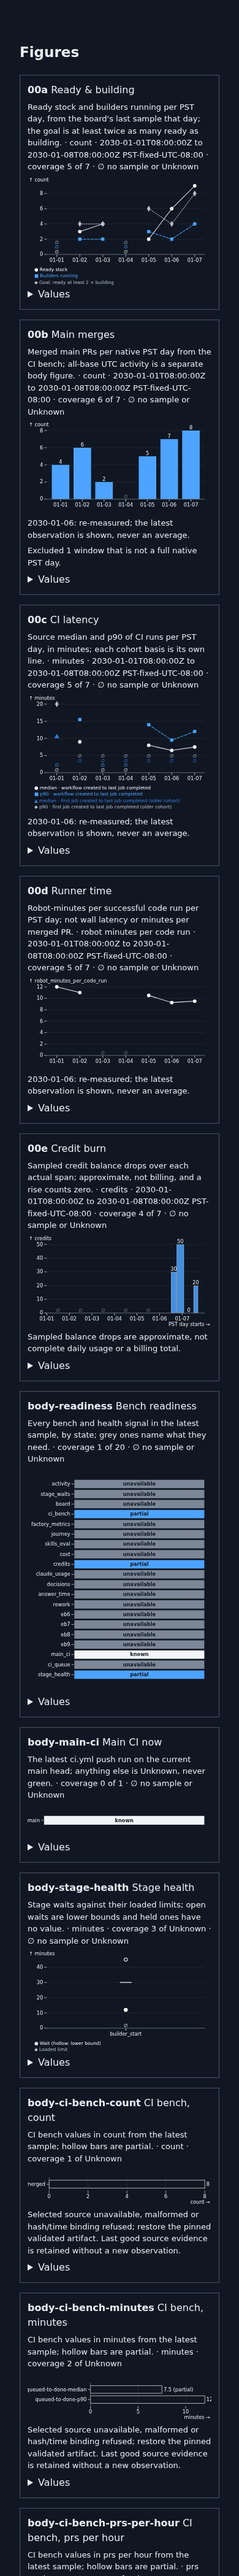
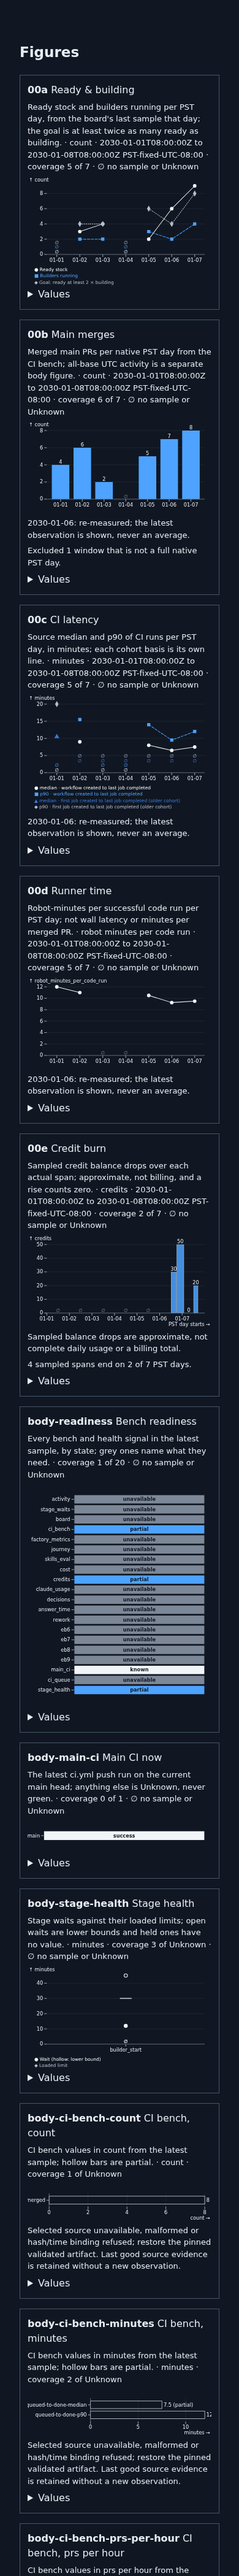
#630: green: review 1 fixes R1-R5
R1 main CI draws its result word; R2 gather's projected board feeds 00a through
read_natives' checks (its count metrics' pinned history); R3 labels carry each job,
interval or metric id; R4 credit coverage counts PST days, span count stated;
R5 credit spans keep their basis, recovered from the interval id.

Changed region(s): [[0.0923, 0.5302, 0.8923, 1.0]]

diff --git a/tools/war-room/charts/prepare.py b/tools/war-room/charts/prepare.py
@@ -91,30 +91,74 @@ def stale_gap(days, at):
 
 # --- native artifacts -----------------------------------------------------------
 
+def chart_selections(selection):
+    """The entries of a publish selection the chart build reads: a native board history, or
+    the projected board provider gather writes over its pinned raw history (R2)."""
+    return [s for s in selection if isinstance(s, dict) and (
+        s.get('kind') in NATIVE_KINDS or (s.get('kind') == 'projected' and s.get('slot') == 'board'))]
+
+
+def _checked_bytes(root, s, at):
+    suite.require(type(s) is dict and set(s) == sources.REQUIRED, 'invalid chart selection fields')
+    suite.require(type(s['path']) is str and re.fullmatch(r'[A-Za-z0-9_.-]+(?:/[A-Za-z0-9_.-]+)*', s['path'])
+                  and not any(x in ('.', '..') for x in s['path'].split('/')), 'invalid chart source path')
+    suite.require(type(s['sha256']) is str and re.fullmatch('[0-9a-f]{64}', s['sha256']), 'invalid chart source hash')
+    suite.require(type(s['evidence']) is list and s['evidence']
+                  and all(type(u) is str and sources.LINK.fullmatch(u) for u in s['evidence']), 'invalid chart source links')
+    suite.require(suite._time(s['observed_at']) <= suite._time(at), 'chart source observed after the build')
+    suite.require(root is not None, 'a chart selection needs its source root')
+    base = Path(root).resolve()
+    path = (base / s['path']).resolve()
+    suite.require(path.is_relative_to(base), 'chart source escapes its root')
+    raw = path.read_bytes()
+    suite.require(hashlib.sha256(raw).hexdigest() == s['sha256'], 'chart source hash mismatch')
+    return raw
+
+
+BOARD_COUNTS = ('ready-stock', 'builders-running')
+
+
+def board_from_projected(root, s, at):
+    """The native board history a projected board provider was built from, or None.
+
+    Its ready-stock and builders-running counts, the two 00a plots, pin one raw
+    `history.jsonl` (path, SHA-256, observation time, evidence); that becomes a
+    board_history selection, then passes read_natives' own checks. Other metrics can
+    cite other files (the ratios cite graph.json) and are not this history."""
+    provider = suite._decode(_checked_bytes(root, s, at).decode('utf-8'))
+    suite.require(type(provider) is dict and provider.get('slot') == 'board', 'projected board slot mismatch')
+    pinned = {(m['source']['path'], m['source']['sha256'], m['observed_at'], tuple(m['evidence']))
+              for m in provider.get('metrics', [])
+              if type(m) is dict and m.get('id') in BOARD_COUNTS and type(m.get('source')) is dict
+              and m['source'].get('schema') == sources.PLAN_LINKS}
+    if not pinned:
+        return None  # an unavailable or graph-only board: nothing to chart
+    suite.require(len(pinned) == 1, 'a projected board names more than one history')
+    path, sha, observed, evidence = pinned.pop()
+    return {'kind': 'board_history', 'slot': 'board', 'path': path, 'sha256': sha,
+            'observed_at': observed, 'evidence': list(evidence)}
+
+
 def read_natives(root, selections, at):
     """Selected native artifacts the chart build reads itself: board history only.
 
     Each entry has the sources.select shape; its bytes must match their SHA-256, stay
-    inside the root and have been observed at or before the build. Any refusal raises.
+    inside the root and have been observed at or before the build. A projected board
+    provider stands for the raw history it pins. Any refusal raises.
     """
     suite._time(at)
     suite.require(type(selections) in (list, tuple), 'chart selection must be an array')
+    suite.require(len({s.get('slot') for s in selections if type(s) is dict}) == len(selections),
+                  'one chart selection per slot')
     out = []
     for s in selections:
+        if type(s) is dict and s.get('kind') == 'projected' and s.get('slot') == 'board':
+            s = board_from_projected(root, s, at)
+            if s is None:
+                continue
         suite.require(type(s) is dict and set(s) == sources.REQUIRED, 'invalid chart selection fields')
         suite.require(s['kind'] in NATIVE_KINDS and s['slot'] == sources.SLOTS[s['kind']], 'unsupported chart selection')
-        suite.require(type(s['path']) is str and re.fullmatch(r'[A-Za-z0-9_.-]+(?:/[A-Za-z0-9_.-]+)*', s['path'])
-                      and not any(x in ('.', '..') for x in s['path'].split('/')), 'invalid chart source path')
-        suite.require(type(s['sha256']) is str and re.fullmatch('[0-9a-f]{64}', s['sha256']), 'invalid chart source hash')
-        suite.require(type(s['evidence']) is list and s['evidence']
-                      and all(type(u) is str and sources.LINK.fullmatch(u) for u in s['evidence']), 'invalid chart source links')
-        suite.require(suite._time(s['observed_at']) <= suite._time(at), 'chart source observed after the build')
-        suite.require(root is not None, 'a chart selection needs its source root')
-        base = Path(root).resolve()
-        path = (base / s['path']).resolve()
-        suite.require(path.is_relative_to(base), 'chart source escapes its root')
-        raw = path.read_bytes()
-        suite.require(hashlib.sha256(raw).hexdigest() == s['sha256'], 'chart source hash mismatch')
+        raw = _checked_bytes(root, s, at)
         lines = [line for line in raw.decode('utf-8').splitlines() if line.strip()]
         rows = [sources.board_strict(line) for line in lines]
         suite.require(bool(rows), 'empty board history')
@@ -179,8 +223,10 @@ def _figure(fid, kind, title, caption, unit, window, domain, series, rows, gaps,
             'gaps': [clean(g) for g in dict.fromkeys(gaps)], 'srcs': srcs}
 
 
-def _row(key, series, x, y, state, label, x2=None):
-    return {'key': key, 'series': series, 'x': x, 'x2': x2, 'y': y, 'state': state, 'label': clean(label)}
+def _row(key, series, x, y, state, label, x2=None, text=None):
+    """One mark. `text` is a short word drawn visibly on cell figures (a result, a state)."""
+    return {'key': key, 'series': series, 'x': x, 'x2': x2, 'y': y, 'state': state, 'text': text,
+            'label': clean(label)}
 
 
 def _unknown_figure(fid, kind, title, caption, unit, reason):
@@ -349,26 +395,59 @@ def credit_burn(records, at):
     for e in entries:
         by_end.setdefault(pst_day(_iso(suite._time(e['metric']['window']['until']) - timedelta(seconds=1))), []).append(e)
     days = seven_days(max(by_end))
-    rows, srcs = [], []
+    rows, srcs, used = [], [], []
     for e in sorted((e for d in days for e in by_end.get(d, [])), key=lambda e: e['metric']['window']['since']):
         m = e['metric']
         since, until = m['window']['since'], m['window']['until']
         end_day = pst_day(_iso(suite._time(until) - timedelta(seconds=1)))
         crosses = pst_day(since) != end_day
-        label = (f'Credit span {since} to {until} ({_hours(since, until)}): {_fmt(m["value"])} credits dropped, '
+        basis = credit_basis(m['id'], since, until)
+        used.append(basis)
+        label = (f'Credit span {since} to {until} ({_hours(since, until)}): {_fmt(m["value"])} {BASIS_WORDS[basis]}, '
                  f'PST day {end_day}' + ('; crosses a PST midnight, not split' if crosses else '') + '; sampled, not billing')
-        rows.append(_row(m['id'], 'drop', since, _num(m['value']), 'partial' if m['state'] != 'known' else 'known', label, x2=until))
+        rows.append(_row(m['id'], 'drop:' + basis, since, _num(m['value']),
+                         'partial' if m['state'] != 'known' else 'known', label, x2=until))
         srcs.append(_source('credits', m['id'], m['source'], m['evidence'], e['samples']))
     for day in days:
         if day not in by_end:
-            rows.append(_row('missing:' + day, 'drop', day_start(day), None, 'missing',
+            rows.append(_row('missing:' + day, 'missing', day_start(day), None, 'missing',
                              f'PST day {day}: no sampled credit span ends this day', x2=day_start(day_after(day))))
     window = pst_window(days)
     # A span that starts before the window's first day is drawn from the window's start.
     window['since'] = min([window['since']] + [r['x'] for r in rows])
-    series = [{'key': 'drop', 'label': 'Sampled credit drop', 'role': 'secondary'}]
-    gaps = ['Sampled balance drops are approximate, not complete daily usage or a billing total.'] + stale_gap(days, at)
-    return _figure('00e', 'spans', title, caption, 'credits', window, days, series, rows, gaps, srcs, 7)
+    # R5: each measurement basis is its own series; an unknown basis is never full-balance evidence.
+    series = [{'key': 'drop:' + b, 'label': BASIS_SERIES[b], 'role': BASIS_ROLE[b]} for b in BASES if b in used]
+    series.append({'key': 'missing', 'label': 'No span ends this PST day', 'role': 'muted'})
+    gaps = ['Sampled balance drops are approximate, not complete daily usage or a billing total.']
+    if 'extra-only' in used:
+        gaps.append('Extra-only seed spans compare extra credits only; the overall balance change over them is unknown.')
+    if 'unknown' in used:
+        gaps.append('A span whose basis cannot be recovered from its interval id is shown apart, never as full-balance.')
+    observed_days = [d for d in days if d in by_end]
+    gaps.append(f'{len(used)} sampled span{"s" if len(used) != 1 else ""} end on {len(observed_days)} of 7 PST days.')
+    gaps += stale_gap(days, at)
+    fig = _figure('00e', 'spans', title, caption, 'credits', window, days, series, rows, gaps, srcs, 7)
+    # R4: day coverage counts PST days with a span ending, never spans against days.
+    fig['coverage']['observed'] = len(observed_days)
+    return fig
+
+
+# The native credit reader names each span by sha256(since|until|basis) (sources.credits), so
+# the basis is recovered exactly by matching both candidates; anything else stays unknown.
+BASES = ('full-balance', 'extra-only', 'unknown')
+BASIS_WORDS = {'full-balance': 'credits dropped (full balance)',
+               'extra-only': 'extra credits dropped (extra-only seed; overall balance change unknown)',
+               'unknown': 'credits dropped (basis unknown)'}
+BASIS_SERIES = {'full-balance': 'Sampled drop, full balance', 'extra-only': 'Sampled drop, extra credits only (seed)',
+                'unknown': 'Sampled drop, basis unknown'}
+BASIS_ROLE = {'full-balance': 'secondary', 'extra-only': 'older', 'unknown': 'reference'}
+
+
+def credit_basis(metric_id, since, until):
+    for basis in BASES[:2]:
+        if metric_id == 'sampled-drop-' + hashlib.sha256('|'.join((since, until, basis)).encode('ascii')).hexdigest():
+            return basis
+    return 'unknown'
 
 
 # --- body figures ---------------------------------------------------------------
@@ -383,7 +462,7 @@ def readiness(record):
     for p in record['providers'] + suite.health(record):
         name = NAMES.get(p['slot'], p['slot'])
         label = f'{name}: {p["state"]}' + (f'. {p["prerequisites"][0]}' if p['prerequisites'] else '')
-        rows.append(_row(p['slot'], 'state', p['slot'], None, p['state'], label))
+        rows.append(_row(p['slot'], 'state', p['slot'], None, p['state'], label, text=p['state']))
         domain.append(p['slot'])
     series = [{'key': 'state', 'label': 'Provider state', 'role': 'primary'}]
     fig = _figure('body-readiness', 'readiness', 'Bench readiness',
@@ -399,7 +478,7 @@ def main_ci_figure(record):
     for o in provider['observations'] or [None]:
         if o is None:
             rows.append(_row('main', 'result', 'main', None, 'unavailable',
-                             'Main CI: Unknown. ' + '; '.join(provider['prerequisites'])))
+                             'Main CI: Unknown. ' + '; '.join(provider['prerequisites']), text='unknown'))
             continue
         ident = o['identity']
         where = (f' at {ident["head_sha"][:7]}' if ident['head_sha'] else '') + (
@@ -407,7 +486,9 @@ def main_ci_figure(record):
         text = f'Main CI{where}: {o["result"]}' + (f' (read {o["point"]})' if o['point'] else '')
         if o['prerequisites']:
             text += '. ' + '; '.join(o['prerequisites'])
-        rows.append(_row('main', 'result', 'main', None, o['state'], text))
+        # R1: the result itself is drawn, not only the evidence state: success, failure,
+        # pending, cancelled and unknown must look different without hover or disclosure.
+        rows.append(_row('main', 'result', 'main', None, o['state'], text, text=o['result'] or 'unknown'))
     srcs = [_source('main_ci', o['id'], o['source'], o['evidence'], [record['sample_id']])
             for o in provider['observations'] if o['source']]
     return _figure('body-main-ci', 'readiness', 'Main CI now',
@@ -422,7 +503,9 @@ def _limits_figure(fid, title, caption, waits, limits, sample_id, slot, unknown_
     rows, srcs = [], []
     for x, o in waits:
         lower = o['state'] == 'partial' and o['value'] is not None
-        text = f'{o["label"]} ({x}): ' + ('Unknown' if o['value'] is None else ('at least ' if lower else '') + f'{_fmt(o["value"])} min')
+        # R3: the observation's own identity (job or interval), so equal waits stay distinct.
+        ident = o['id'].split(':')[-1]
+        text = f'{o["label"]} ({x}, {ident}): ' + ('Unknown' if o['value'] is None else ('at least ' if lower else '') + f'{_fmt(o["value"])} min')
         rows.append(_row(o['id'], 'wait', x, o['value'], o['state'], text))
         if o['source']:
             srcs.append(_source(slot, o['id'], o['source'], o['evidence'], [sample_id]))
@@ -445,7 +528,7 @@ def health_figures(record):
     counts = [o for o in queue if o['statistic'] == 'count']
     if counts:
         rows = [_row(o['id'], 'count', o['id'], o['value'], o['state'],
-                     f'{o["label"]}: ' + ('Unknown' if o['value'] is None else _fmt(o['value']))) for o in counts]
+                     f'{o["label"]} ({o["id"]}): ' + ('Unknown' if o['value'] is None else _fmt(o['value']))) for o in counts]
         srcs = [_source('ci_queue', o['id'], o['source'], o['evidence'], [record['sample_id']]) for o in counts if o['source']]
         figs.append(_figure('body-ci-queue-count', 'bars', 'CI queue now',
                             'Queued and running CI jobs per exact pool at the read; an incomplete read is Unknown, never zero.',
@@ -486,7 +569,7 @@ def body_figures(record):
             metrics = [m for m in metrics if not m['id'].startswith(('wait:', 'limit:'))]
         if slot == 'journey':
             rows = [_row(m['id'], 'ticket', None, m['value'], m['state'],
-                         f'Ticket {m["dimensions"]["ticket"]}: {_fmt(m["value"])} h ready to merge') for m in metrics]
+                         f'Ticket {m["dimensions"]["ticket"]} ({m["id"]}): {_fmt(m["value"])} h ready to merge') for m in metrics]
             srcs = [_source(slot, m['id'], m['source'], m['evidence'], [record['sample_id']]) for m in metrics if m['source']]
             figs.append(_figure('body-journey', 'distribution', 'Ticket ready to merge',
                                 'Hours from ready to first closing merge, one dot per recorded ticket; coverage is unknown.',
@@ -496,7 +579,7 @@ def body_figures(record):
         for unit in sorted({m['unit'] for m in metrics}):
             mine = [m for m in metrics if m['unit'] == unit]
             rows = [_row(m['id'], 'value', m['id'], m['value'], m['state'],
-                         f'{m["label"]}: ' + ('Unknown' if m['value'] is None else f'{_fmt(m["value"])} {unit}')
+                         f'{m["label"]} ({m["id"]}): ' + ('Unknown' if m['value'] is None else f'{_fmt(m["value"])} {unit}')
                          + (f' [{m["window"]["since"]}, {m["window"]["until"]})' if m['window'] else '')) for m in mine]
             srcs = [_source(slot, m['id'], m['source'], m['evidence'], [record['sample_id']]) for m in mine if m['source']]
             fid = 'body-' + re.sub('[^a-z0-9]+', '-', f'{slot}-{unit}').strip('-')

diff --git a/tools/war-room/test_charts.py b/tools/war-room/test_charts.py
@@ -501,27 +501,28 @@ class Charts(unittest.TestCase):
 
     def test_a_gathered_projected_board_feeds_ready_and_building(self):
         # catches (R2): gather selects the board as a projected provider over its raw
-        # history, and the chart build ignored it, so 00a was Unknown on the normal path.
-        import gather
-        with tempfile.TemporaryDirectory() as d:
-            staging = Path(d) / 'root'
-            staging.mkdir()
-            root = gather.Root(staging, REPO, 'https://github.com/synthetic-owner/work/actions/runs/9', BUILD_AT)
-            raw = BOARD.encode()
-            s = {'path': 'board/history.jsonl', 'sha256': root.write('board/history.jsonl', raw),
-                 'observed_at': '2030-01-08T09:40:00Z', 'evidence': [LINK]}
-            root.projected(gather.board_provider(s, raw, None, None), s['observed_at'])
-            self.assertEqual([e['kind'] for e in root.selection], ['projected'])
-            (Path(d) / 'selection.json').write_text(json.dumps(root.selection))
-            w = World(Path(d) / 'w')
-            bundle = publish.chart_builder(staging, Path(d) / 'selection.json', BUILD_AT)(w.history)
-            fig = figure(bundle, '00a')
-            self.assertEqual(by_day(fig, 'ready')['2030-01-07'], 9)
-            self.assertEqual(fig['sources'][0]['sha256'], s['sha256'])
-            # The projected provider names the raw history; tampered raw bytes still refuse.
-            (staging / 'board/history.jsonl').write_bytes(raw + b'\n')
+        # history (its ratios citing graph.json), and the chart build ignored it, so 00a
+        # was Unknown on the normal gathered publication.
+        import test_gather
+        case = test_gather.Gather()
+        case.setUp()
+        try:
+            root, selection = case.gather()
+            self.assertEqual([s['kind'] for s in selection if s['slot'] == 'board'], ['projected'])
+            board = next(json.loads((root / s['path']).read_text()) for s in selection if s['slot'] == 'board')
+            counts = {m['id']: m['value'] for m in board['metrics'] if m['id'] in ('ready-stock', 'builders-running')}
+            build_chart = publish.chart_builder(root, case.tmp / 'out' / 'selection.json', test_gather.PUBLISH_AT)
+            fig = figure(build_chart(case.tmp / 'no-history'), '00a')
+            latest = fig['domain'][-1]
+            self.assertEqual((by_day(fig, 'ready')[latest], by_day(fig, 'building')[latest]),
+                             (counts['ready-stock'], counts['builders-running']))
+            self.assertEqual(fig['sources'][0]['path'], 'board/history.jsonl')
+            # The projected provider pins the raw bytes: changed raw history still refuses.
+            (root / 'board' / 'history.jsonl').write_text((root / 'board' / 'history.jsonl').read_text() + '\n')
             with self.assertRaises(publish.Fail):
-                publish.chart_builder(staging, Path(d) / 'selection.json', BUILD_AT)(w.history)
+                build_chart(case.tmp / 'no-history')
+        finally:
+            case.doCleanups()
 
     def test_credit_seed_spans_keep_their_extra_only_basis(self):
         # catches (R5): an extra-only seed span merged into the full-balance series, so an

diff --git a/tools/war-room/publish.py b/tools/war-room/publish.py
@@ -209,9 +209,9 @@ def chart_builder(source_root, selection, at):
     """WRD2: the chart build for one render, over the tick's history and the selected board
     history. A refusal is a Fail: nothing is published and the branch keeps its last good page."""
     charts = sources.native('tools/war-room/charts/build.py')
-    chosen = [] if selection is None else [
-        s for s in suite._decode(Path(selection).read_text(encoding='utf-8'))
-        if isinstance(s, dict) and s.get('kind') in charts.prepare.NATIVE_KINDS]
+    # A native board history, or the projected board gather writes over its pinned raw history.
+    chosen = [] if selection is None else charts.prepare.chart_selections(
+        suite._decode(Path(selection).read_text(encoding='utf-8')))
 
     def build(history_root):
         try:

diff --git a/tools/war-room/charts/build.py b/tools/war-room/charts/build.py
@@ -147,7 +147,7 @@ def main(argv=None):
     a = parser.parse_args(argv)
     try:
         chosen = [] if a.selection is None else suite._decode(a.selection.read_text(encoding='utf-8'))
-        chosen = [s for s in chosen if isinstance(s, dict) and s.get('kind') in prepare.NATIVE_KINDS]
+        chosen = prepare.chart_selections(chosen)
         bundle = build(a.history, at=a.at, source_root=a.source_root, selections=chosen, out=a.out)
     except (ValueError, OSError, UnicodeError, RecursionError) as error:
         print('war-room charts: %s; nothing written' % (error if isinstance(error, ValueError) else type(error).__name__),

diff --git a/tools/war-room/charts/contract.md b/tools/war-room/charts/contract.md
@@ -50,9 +50,12 @@ chart script, hydration, module, font, image or data request reaches the page.
   `history.read_all` (strict JSON, `suite.validate`, the privacy rules).
 - **Native artifacts:** selection entries of the same shape as `sources.select`
   (`kind`, `slot`, `path`, `sha256`, `observed_at`, `evidence`). The chart
-  build reads only `board_history` (the board's `history.jsonl`, validated row
-  by row with the board's own `sources.board_valid_row`); other kinds are
-  ignored here and read through history. Each file must stay inside the source
+  build reads only the board's `history.jsonl`, validated row by row with the
+  board's own `sources.board_valid_row`: a `board_history` entry, or the
+  `projected` board provider `gather` writes, which stands for the one raw
+  history its metrics pin (path, SHA-256, observation time, evidence) and then
+  passes the same checks. One entry per slot. Other kinds are ignored here and
+  read through history. Each file must stay inside the source
   root, match its SHA-256 and have been observed at or before the build time. A
   selected artifact that fails refuses the build.
 
@@ -73,7 +76,7 @@ replaced and history is never touched (the build only reads it).
 | `window` | The figure's own actual window `{since, until, timezone}`, or null |
 | `domain` | The category axis in order: the figure's PST days, slots, stages or metric ids |
 | `series` | `{key, label, role}`; `role` picks the palette entry (`primary`, `secondary`, `reference`, `older`, `muted`) |
-| `rows` | One plotted mark each: `{key, series, x, x2, y, state, label}` |
+| `rows` | One plotted mark each: `{key, series, x, x2, y, state, text, label}`; `text` is a short visible word for cell figures (a main-CI result, a provider state), or null |
 | `coverage` | `{observed, expected, missing}` |
 | `gaps` | What the figure cannot show, in plain words |
 | `sources` | `{slot, metric, path, schema, sha256, evidence, samples}`: each selected observation's source and the sample ids that carried it |
@@ -88,8 +91,9 @@ of each series' symbol, colour and label, which has no title because it plots no
 A loaded limit is a short horizontal bar at its stage.
 
 Cross-field rules, checked after the schema: unique figure ids, unique row keys
-in a figure, every row's series declared, category rows inside `domain`, at
-least one row per figure (an empty figure carries one `unavailable` row naming
+in a figure, unique labels (each names its own job, interval or metric id, so
+equal values stay distinct), every row's series declared, category rows inside
+`domain`, at least one row per figure (an empty figure carries one `unavailable` row naming
 its prerequisite), and `coverage.observed` equal to the rows with a value.
 
 ## The headline figures
@@ -105,7 +109,7 @@ day is named in `gaps`.
 | `00b` | Main merges | `ci_bench` `merged` over native full days only: a `PST-fixed-UTC-08:00` 24-hour window. Other windows are excluded and counted in `gaps`. `factory_metrics`' all-base UTC days are never substituted; they stay a separately labelled body figure |
 | `00c` | CI latency | `ci_bench` `queued-to-done-median` and `-p90` per native day, each with its run count. The basis in its label is part of the series: `workflow created to last job completed` is current; any other basis (the older `first job created` cohort) is its own `older` series. No line joins two bases or a missing day |
 | `00d` | Runner time | `ci_bench` `robot-minutes` per successful code run, with its run count (the denominator) in every label |
-| `00e` | Credit burn | `credits` sampled drops: one span per native credit interval, drawn over its actual start and end, never split at midnight. A span is assigned to the PST day of its end; one that crosses a PST midnight says so. Time between spans is a `missing` gap row. Sampled balance drops are approximate, not billing |
+| `00e` | Credit burn | `credits` sampled drops: one span per native credit interval, drawn over its actual start and end, never split at midnight. A span is assigned to the PST day of its end; one that crosses a PST midnight says so. Each span keeps its basis, recovered exactly from its interval id: `full-balance`, the legacy `extra-only` seed (extra credits only; overall change unknown) or `unknown`, each its own series. Coverage counts PST days with a span ending; the span count is stated in `gaps`. A day with none is a `missing` row. Sampled balance drops are approximate, not billing |
 
 **Repeated observations.** A value repeated across five-minute samples (the
 same slot, metric id, native window and source SHA-256; credit spans by their
@@ -121,8 +125,9 @@ From the latest sample, without new statistics:
 
 - `body-readiness`: every provider (the 17 v1 slots) and the three health slots,
   one cell each, by state. Prerequisites are in the labels.
-- `body-main-ci`: the current main result with its head, run and attempt, or
-  Unknown (a v1 sample is unobserved).
+- `body-main-ci`: the current main result, drawn as its word (`success`,
+  `failure`, `pending`, `cancelled`, `unknown`), with its head, run and attempt
+  in the label, or Unknown (a v1 sample is unobserved).
 - `body-ci-queue-count` (bars) and `body-ci-queue-wait` (limits): counts and
   queued waits per exact pool. No source owns a queue limit: each pool has an
   `Unknown` limit row.

diff --git a/tools/war-room/README.md b/tools/war-room/README.md
@@ -688,11 +688,11 @@ python3 -I tools/war-room/test_charts.py                 # the chart proofs (syn
 
 | Figure | From | Rule |
 | --- | --- | --- |
-| `00a` Ready & building | Selected board `history.jsonl` | The board's daily row per PST day; goal ready ≥ 2 × building |
+| `00a` Ready & building | The board `history.jsonl` (selected, or pinned by gather's projected board) | The board's daily row per PST day; goal ready ≥ 2 × building |
 | `00b` Main merges | `ci_bench` `merged` | Native full PST days only; all-base UTC days stay a body figure |
 | `00c` CI latency | `ci_bench` median and p90 | Each cohort basis its own series; re-measured days show the latest, never an average |
 | `00d` Runner time | `ci_bench` robot-minutes | Per successful code run, with its run count |
-| `00e` Credit burn | `credits` sampled drops | Each span over its actual length, never split at midnight; sampled, not billing |
+| `00e` Credit burn | `credits` sampled drops | Each span over its actual length, never split at midnight, by basis (full balance or extra-only seed); coverage in PST days; sampled, not billing |
 | `body-…` | The latest sample | Readiness of all 20 providers, main CI, queue and stage limits, journeys and every other provider's values by unit |
 
 Repeated observations across samples count once; missing days and Unknown values are

diff --git a/tools/war-room/fixtures/charts/proof.md b/tools/war-room/fixtures/charts/proof.md
@@ -18,6 +18,13 @@ contract stubs), `red-publish.log` (a publication without Node published anyway)
 `red-limits.log` (a limits figure crashed the renderer; found by `test_gather.py`'s
 real-shaped queue data). Green: `green.log`.
 
+Review 1 (R1–R5 at `a482ae0`): `red-review-1.log` holds each finding's own red before
+its fix. Equal held waits refused the whole build (R3); main CI drew `known` for every
+result (R1); gather's projected board left 00a empty (R2); credit coverage counted
+spans against days (R4); an extra-only seed span joined the full-balance series (R5).
+R1, R2, R4 and R5 were run without the R3 row, because that row alone fails the shared
+setup at `a482ae0`. `green.log` is the fixed head's run.
+
 The browser captures come from `capture.py OUT_DIR` (real Chromium, every host
 unresolvable, the page's own `default-src 'none'` CSP) at 1440 and 390 CSS px wide,
 full figure section; re-running it gives byte-identical PNGs. Headless Chromium cannot
